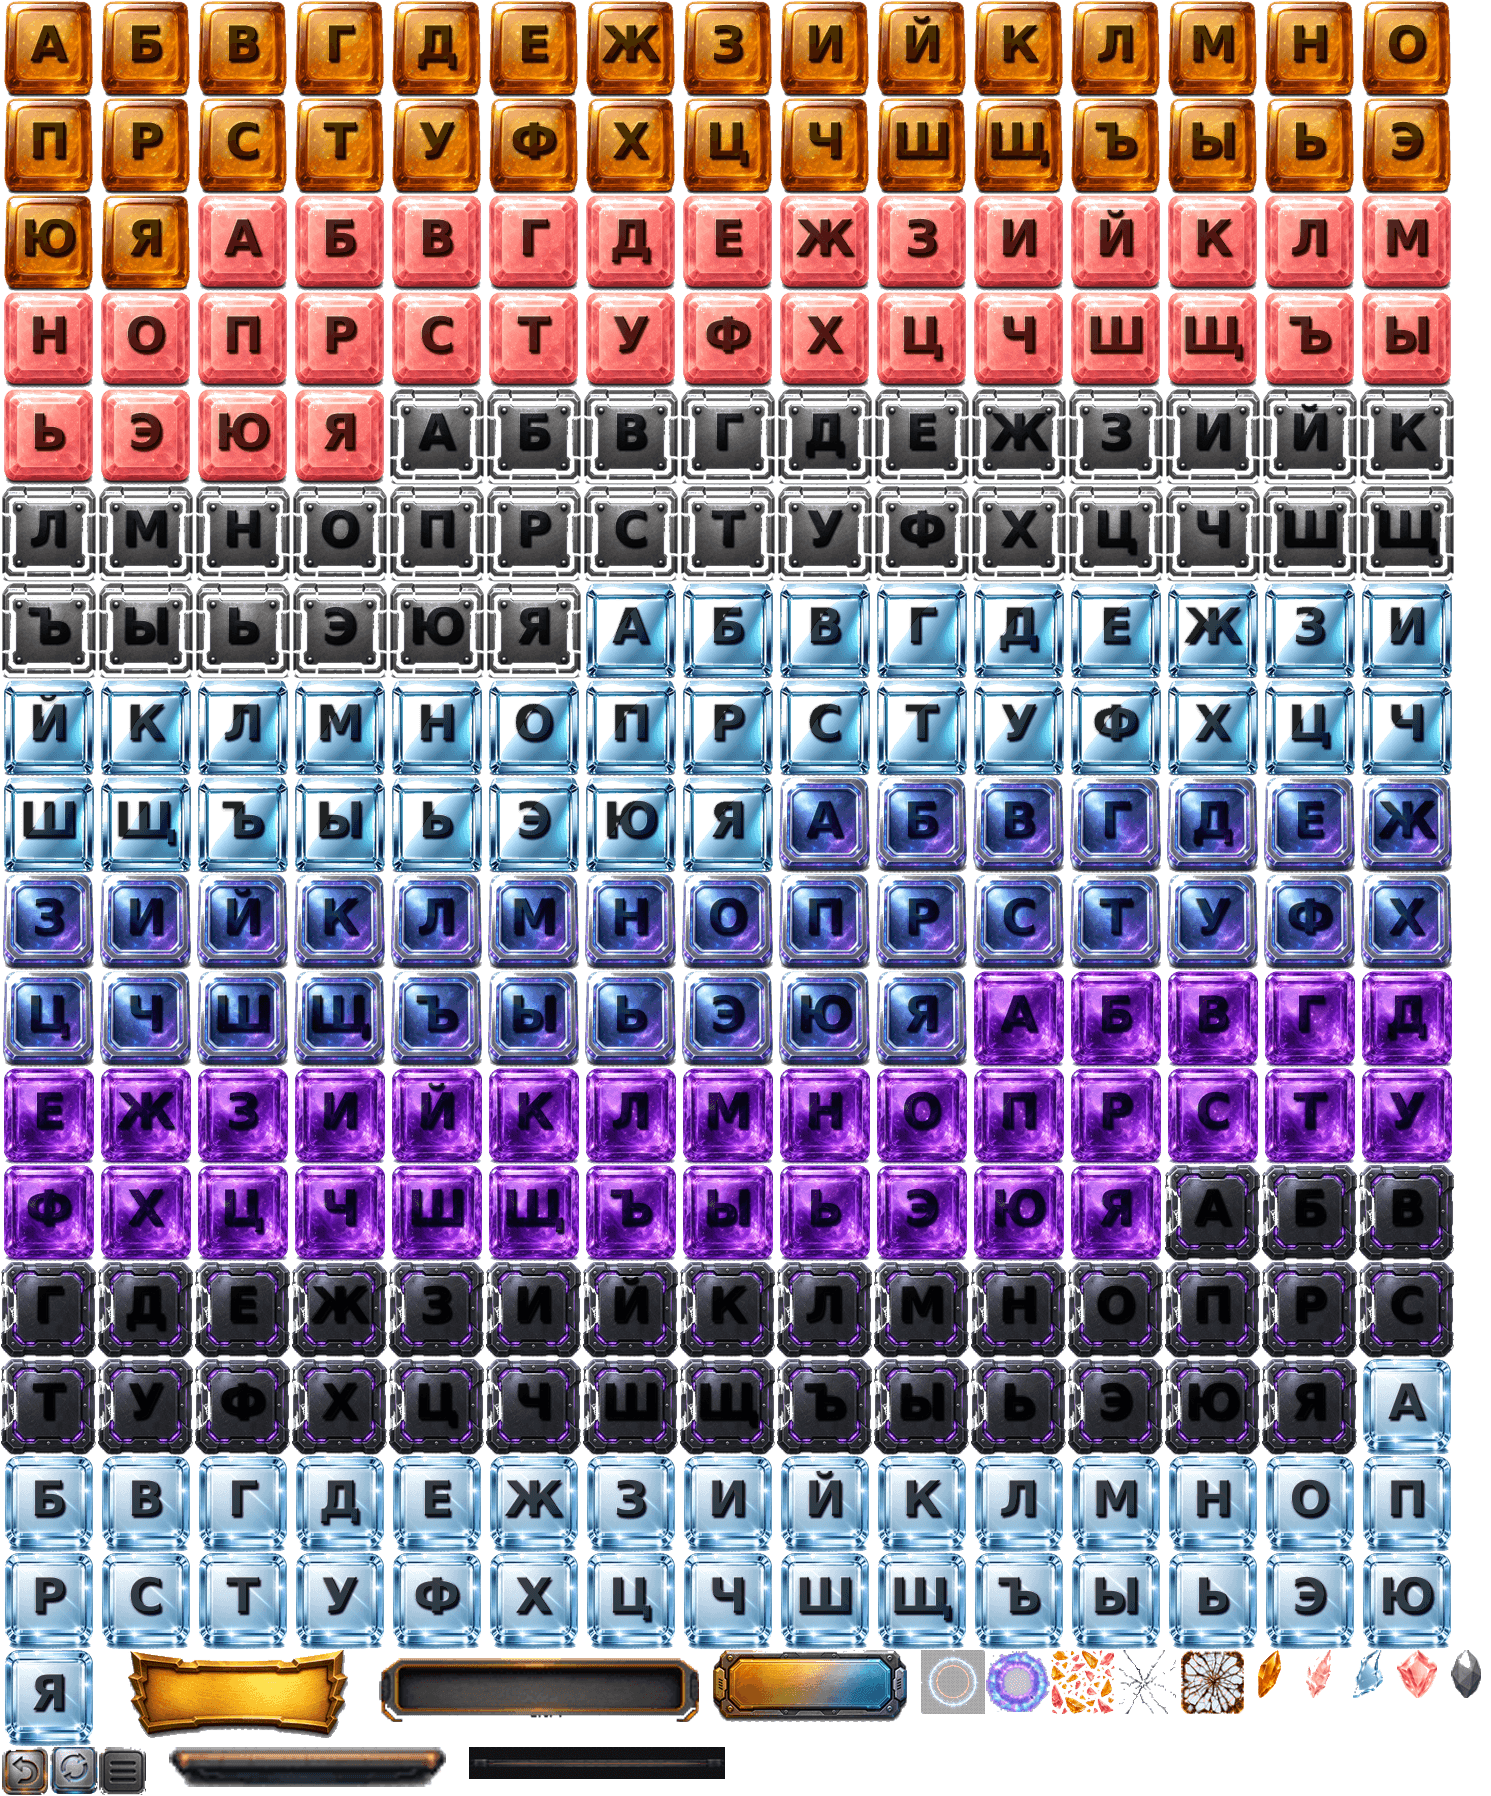
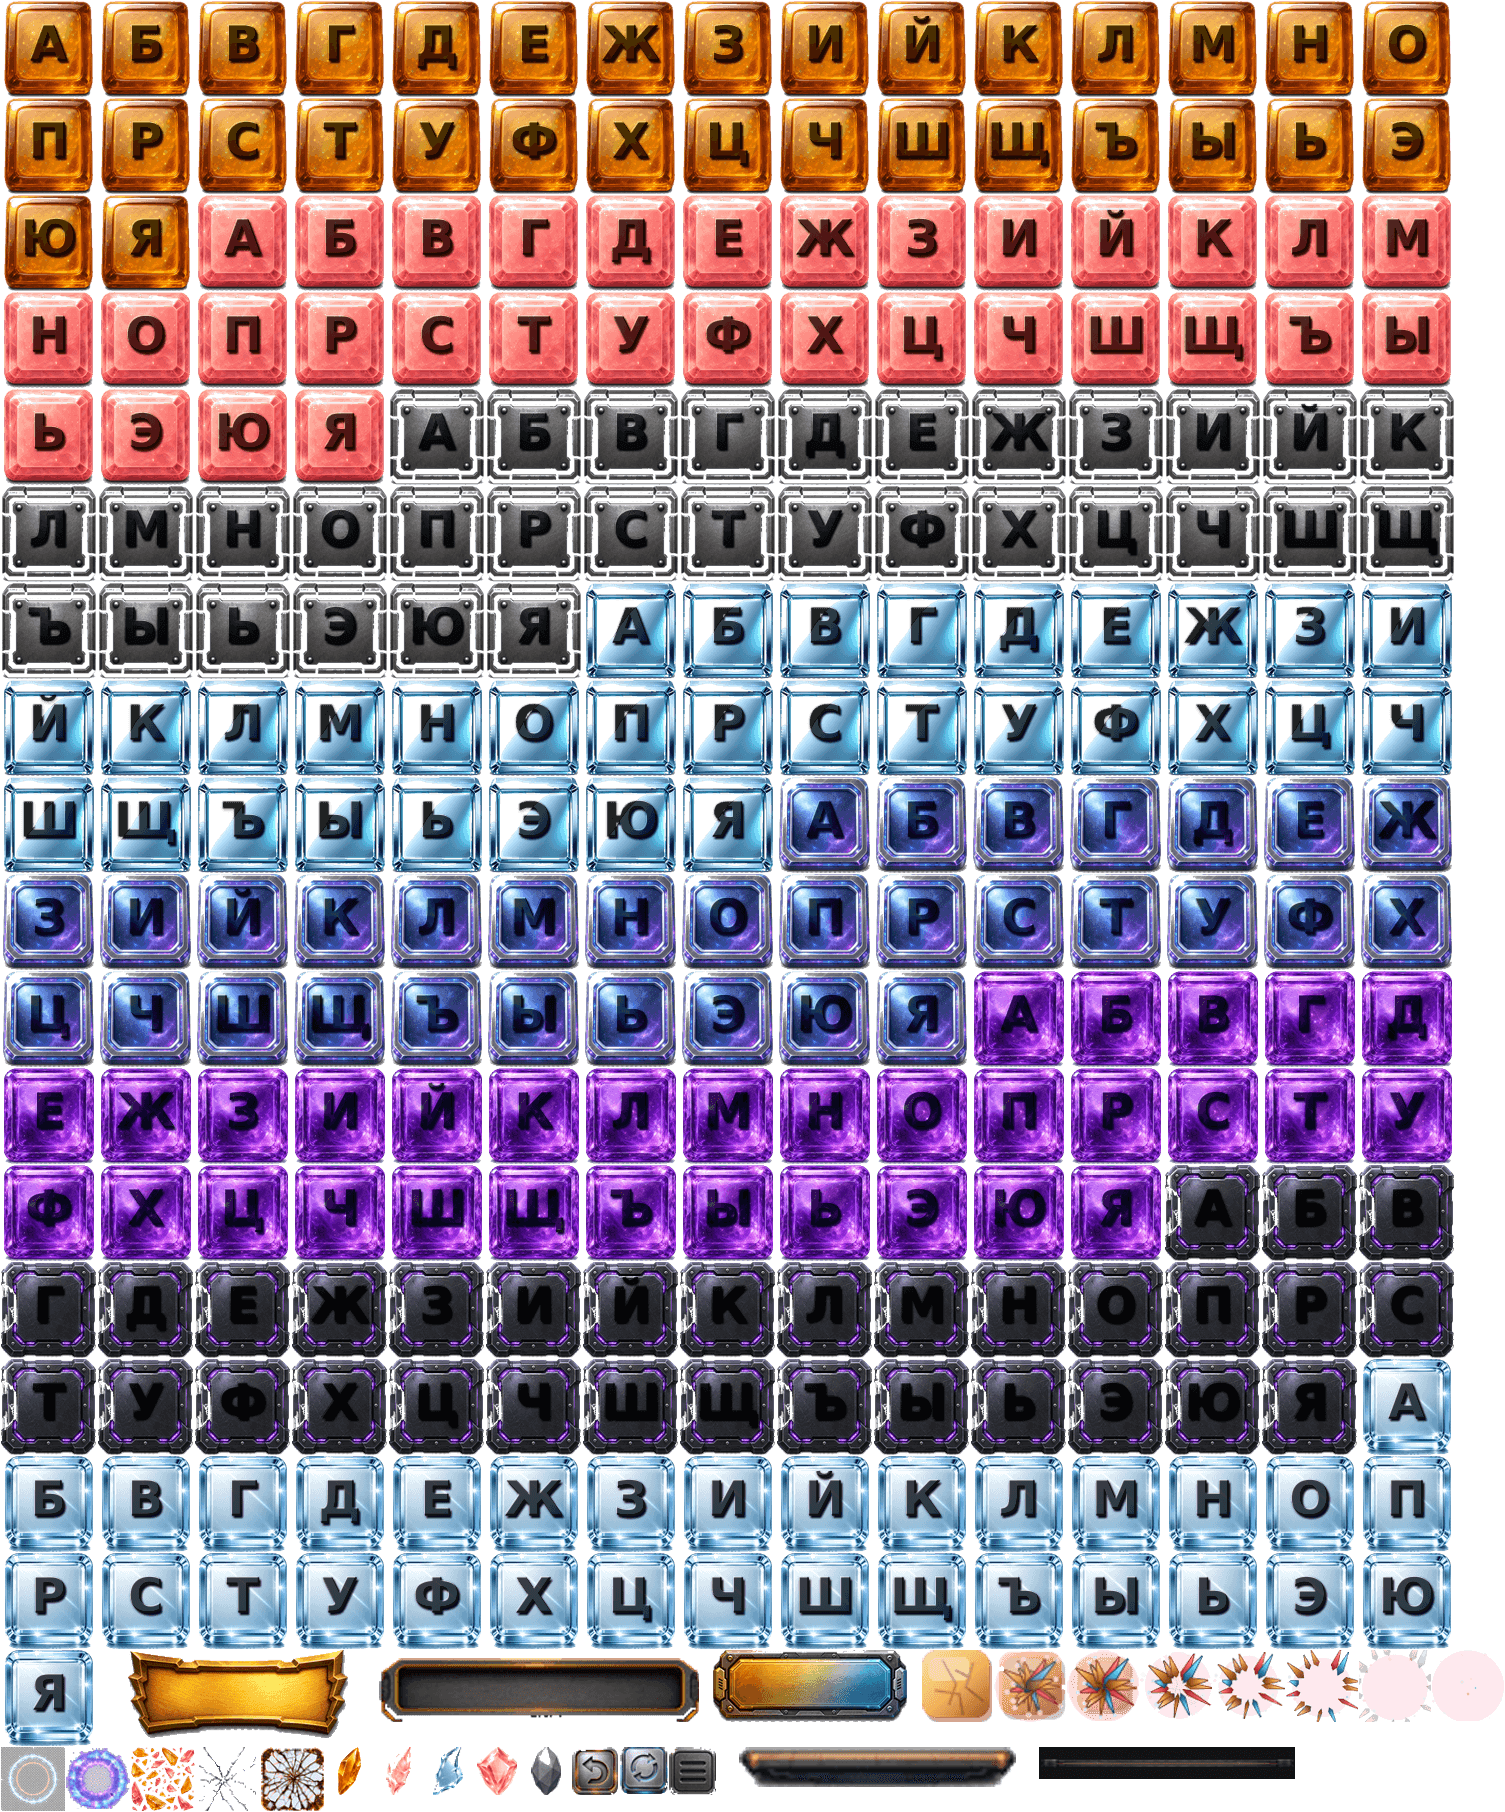
feat: 8-frame shatter sheet on cube destroy
Bake crystalline shatter frames into the atlas and play them when
wall cubes break (longer crack life, heavy echo expands more).

diff --git a/src/game/Renderer.ts b/src/game/Renderer.ts
@@ -864,15 +864,40 @@ export class Renderer {
   }
 
   private drawCracks(_t: number) {
-    const { game, board } = this;
+    const { ctx, game, board } = this;
+    const FRAMES = 8;
     for (const c of game.cracks) {
       const gap = 6;
       const bw = board.cw - gap;
       const bh = board.ch - gap;
       const x = board.x + c.col * board.cw + gap / 2;
       const y = board.y + board.h - (c.row + 1) * board.ch + gap / 2;
-      const p = 1 - c.life / 0.32;
-      this.drawCrackLines(x, y, bw, bh, Math.min(1, p + 0.2));
+      const max = c.max || 0.42;
+      const p = Math.min(1, Math.max(0, 1 - c.life / max));
+      const frame = Math.min(FRAMES - 1, Math.floor(p * FRAMES));
+      const sheet = getNamedAtlasCanvas(`vfx_shatter_${frame}`);
+      const pad = c.heavy ? 14 : 8;
+      const size = Math.max(bw, bh) + pad * 2;
+      const cx = x + bw / 2;
+      const cy = y + bh / 2;
+      ctx.save();
+      // slight expand over time
+      const grow = 1 + p * (c.heavy ? 0.55 : 0.35);
+      ctx.globalAlpha = Math.min(1, 0.35 + (1 - p) * 0.75);
+      if (sheet) {
+        ctx.drawImage(sheet, cx - (size * grow) / 2, cy - (size * grow) / 2, size * grow, size * grow);
+      } else {
+        this.drawCrackLines(x, y, bw, bh, Math.min(1, p + 0.2));
+      }
+      // early frames also flash crack overlay for readability
+      if (p < 0.35) {
+        const crack = getNamedAtlasCanvas("vfx_crack_1");
+        if (crack) {
+          ctx.globalAlpha = (0.35 - p) * 1.6;
+          ctx.drawImage(crack, x - 2, y - 2, bw + 4, bh + 4);
+        }
+      }
+      ctx.restore();
     }
   }
 

diff --git a/src/game/Game.ts b/src/game/Game.ts
@@ -422,7 +422,14 @@ export class Game {
     const fallen: string[] = [];
     const mirrors: WallCell[] = [];
     for (const t of destroySet.values()) {
-      this.cracks.push({ col: t.col, row: t.row, life: 0.32, letter: t.cell.letter });
+      this.cracks.push({
+        col: t.col,
+        row: t.row,
+        life: doEcho ? 0.52 : 0.42,
+        max: doEcho ? 0.52 : 0.42,
+        letter: t.cell.letter,
+        heavy: doEcho,
+      });
     }
     for (let c = 0; c < this.cols; c++) {
       const kept: WallCell[] = [];

diff --git a/src/game/types.ts b/src/game/types.ts
@@ -42,5 +42,19 @@ export type CrackFX = {
   col: number;
   row: number;
   life: number;
+  /** Total lifespan for shatter sheet playback */
+  max: number;
   letter: string;
+  heavy?: boolean;
 };
+
+/** Animated cube shatter (8 atlas frames). */
+export type ShatterFX = {
+  col: number;
+  row: number;
+  life: number;
+  max: number;
+  heavy?: boolean;
+};
+
+export const SHATTER_FRAMES = 8;
